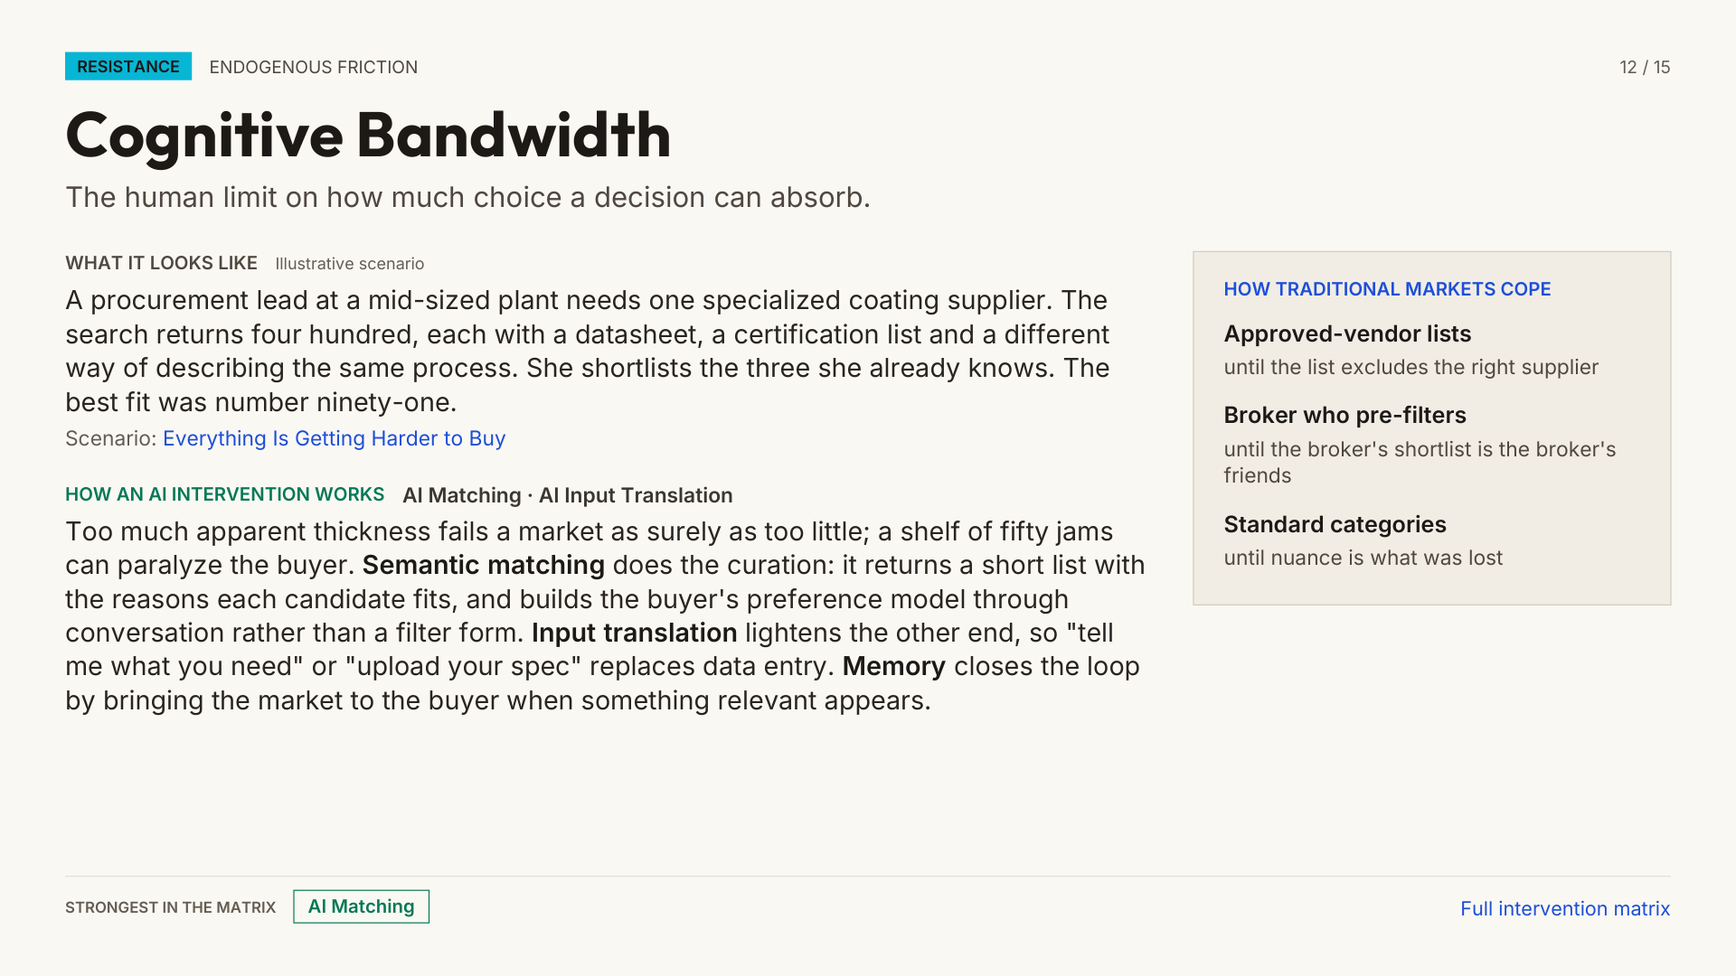
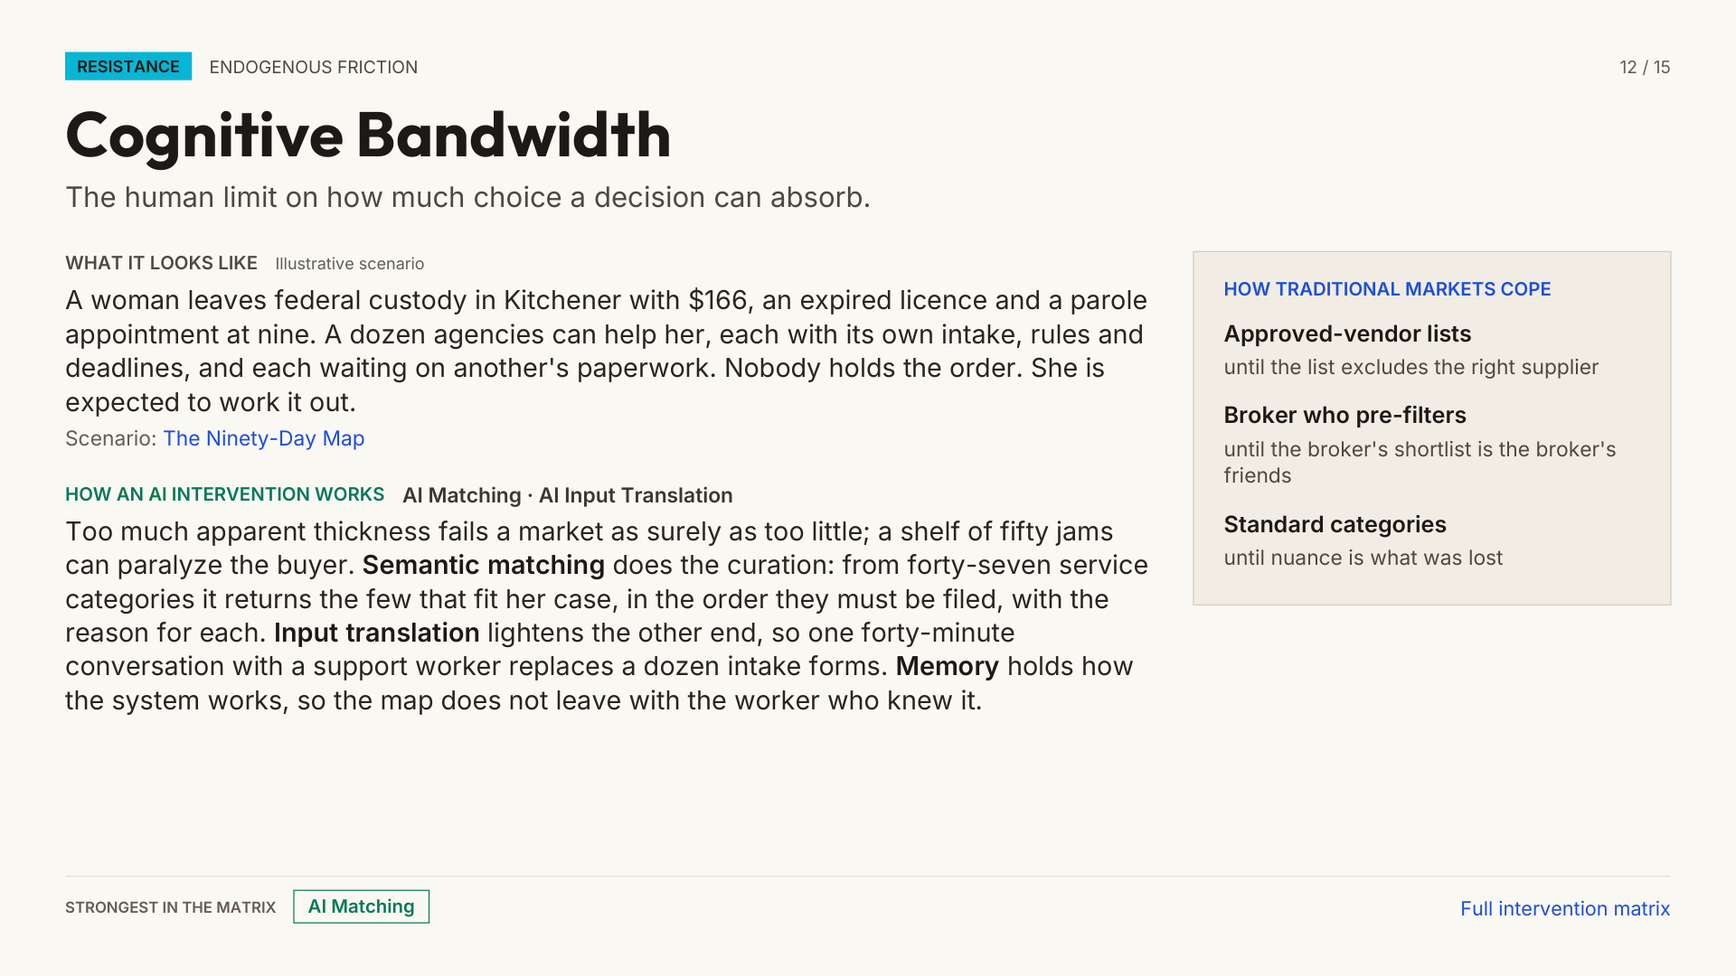
Cards: four scenes set in mainstream Canadian settings
Synced from DeeperPointComms/library/resistance-cards. Trust and Fulfillment
lose their Ethiopian scenes; Cognitive Bandwidth and Participant
Fragmentation trade a machining scene for a social-services one and a
municipal one, so the set is no longer all business.

  Trust                      The Tensile Test That Almost Didn't Happen
  Cognitive Bandwidth        The Ninety-Day Map
  Fulfillment                Two Lines Looking for Each Other
  Participant Fragmentation  The Contaminated Lot

The mechanism text on each follows its new scene. Deck, images and
thumbnails are rebuilt.

Changed region(s): [[0.0312, 0.55, 0.6562, 0.7333], [0.0312, 0.275, 0.6562, 0.4583]]

diff --git a/cards/index.html b/cards/index.html
@@ -175,12 +175,12 @@
     <div class="rc-left">
       <section class="rc-scene">
         <h2>What it looks like <span class="rc-tag">Illustrative scenario</span></h2>
-        <p class="rc-body">A Toronto professional owns a rental flat in Addis Ababa that needs ten thousand dollars of work. Her cousins can open the door for a contractor, but nobody on her side can judge the wiring or the invoice. She does nothing, and the flat decays.</p>
-        <p class="rc-link">Scenario: <a href="https://deeperpoint.com/blog/diaspora-property-thin-market.html">The House You Can&#x27;t Visit</a></p>
+        <p class="rc-body">A Timmins welding shop needs test welds broken and certified within fourteen days. A college lab in Sudbury, three hours south, has a calibrated machine, mostly idle, and no accreditation. The shop cannot stake a contract on a stranger&#x27;s result. The lab will not carry a stranger&#x27;s liability.</p>
+        <p class="rc-link">Scenario: <a href="https://deeperpoint.com/blog/manufacturing-scenarios-testing.html">The Tensile Test That Almost Didn&#x27;t Happen</a></p>
       </section>
       <section class="rc-ai">
         <h2>How an AI intervention works <span class="rc-lead">AI Trusted Intermediary · AI Memory</span></h2>
-        <p class="rc-body">Thin markets never reach the repeated dealings that build trust, so the <strong>trusted intermediary</strong> supplies it structurally. Both sides disclose to the AI, not to each other: the owner her budget and her fears, the contractor his past jobs and prices. The AI confirms fit and brokers the introduction only then. Every completed job becomes verified history, so a tradesperson with twenty tracked jobs carries evidence a stranger can rely on.</p>
+        <p class="rc-body">Thin markets never reach the repeated dealings that build trust, so the <strong>trusted intermediary</strong> supplies it structurally. Both sides disclose to the AI, not to each other: the shop its budget and its deadline, the lab its calibration certificates and its accreditation gap. The AI confirms fit, finds the condition under which the result will stand, and brokers the introduction only then. Every completed test becomes verified history, so a lab with twenty tracked jobs carries evidence a stranger can rely on.</p>
       </section>
     </div>
     <div class="rc-right">
@@ -608,12 +608,12 @@
     <div class="rc-left">
       <section class="rc-scene">
         <h2>What it looks like <span class="rc-tag">Illustrative scenario</span></h2>
-        <p class="rc-body">A procurement lead at a mid-sized plant needs one specialized coating supplier. The search returns four hundred, each with a datasheet, a certification list and a different way of describing the same process. She shortlists the three she already knows. The best fit was number ninety-one.</p>
-        <p class="rc-link">Scenario: <a href="https://deeperpoint.com/blog/everything-is-getting-harder-to-buy.html">Everything Is Getting Harder to Buy</a></p>
+        <p class="rc-body">A woman leaves federal custody in Kitchener with $166, an expired licence and a parole appointment at nine. A dozen agencies can help her, each with its own intake, rules and deadlines, and each waiting on another&#x27;s paperwork. Nobody holds the order. She is expected to work it out.</p>
+        <p class="rc-link">Scenario: <a href="https://deeperpoint.com/blog/the-ninety-day-map.html">The Ninety-Day Map</a></p>
       </section>
       <section class="rc-ai">
         <h2>How an AI intervention works <span class="rc-lead">AI Matching · AI Input Translation</span></h2>
-        <p class="rc-body">Too much apparent thickness fails a market as surely as too little; a shelf of fifty jams can paralyze the buyer. <strong>Semantic matching</strong> does the curation: it returns a short list with the reasons each candidate fits, and builds the buyer&#x27;s preference model through conversation rather than a filter form. <strong>Input translation</strong> lightens the other end, so &quot;tell me what you need&quot; or &quot;upload your spec&quot; replaces data entry. <strong>Memory</strong> closes the loop by bringing the market to the buyer when something relevant appears.</p>
+        <p class="rc-body">Too much apparent thickness fails a market as surely as too little; a shelf of fifty jams can paralyze the buyer. <strong>Semantic matching</strong> does the curation: from forty-seven service categories it returns the few that fit her case, in the order they must be filed, with the reason for each. <strong>Input translation</strong> lightens the other end, so one forty-minute conversation with a support worker replaces a dozen intake forms. <strong>Memory</strong> holds how the system works, so the map does not leave with the worker who knew it.</p>
       </section>
     </div>
     <div class="rc-right">
@@ -647,18 +647,18 @@
     <div class="rc-left">
       <section class="rc-scene">
         <h2>What it looks like <span class="rc-tag">Illustrative scenario</span></h2>
-        <p class="rc-body">A smallholder in the Rift Valley and a hotel chef in Addis Ababa are a hundred and sixty kilometres apart. Between them sit five intermediaries, no cold chain, and a system that wastes a third of everything it touches. The match is easy. The tomatoes are not.</p>
-        <p class="rc-link">Scenario: <a href="https://deeperpoint.com/blog/ethiopia-produce-thin-market.html">Tomatoes in the Sun</a></p>
+        <p class="rc-body">A Guelph food entrepreneur has a validated recipe for a frozen snack and a listing at a regional grocery chain. Of seven co-packers she finds, three lack the freezing line and two set minimum runs she cannot fill at launch. A Chilliwack plant runs two such lines under half full.</p>
+        <p class="rc-link">Scenario: <a href="https://deeperpoint.com/blog/two-lines-looking-for-each-other.html">Two Lines Looking for Each Other</a></p>
       </section>
       <section class="rc-ai">
         <h2>How an AI intervention works <span class="rc-lead">AI-Enabled Aggregation · AI Matching</span></h2>
-        <p class="rc-body">Fulfilment sets the natural boundary of a market: the economic shipping radius, the cold-chain window, the minimum load a carrier will touch. <strong>Aggregation</strong> moves the boundary by fluidly grouping small producers into a counterparty large enough to fill a truck, hit a minimum order, or justify a refrigerated run, clustered by geography and timing rather than by permanent membership. <strong>Semantic matching</strong> then treats logistics as a matching variable, weighing freight, perishability and customs before proposing a pairing rather than discovering them afterwards.</p>
+        <p class="rc-body">Fulfilment sets the natural boundary of a market: the minimum run a plant will schedule, the cold-chain window, the load a carrier will touch. <strong>Aggregation</strong> moves the boundary by fluidly grouping small brands into a counterparty large enough to fill a shared run, hit a minimum order, or justify a refrigerated truck, clustered by format and timing rather than by permanent membership. <strong>Semantic matching</strong> then treats production and logistics as matching variables, weighing equipment, allergens, minimums and freight before proposing a pairing rather than discovering them afterwards.</p>
       </section>
     </div>
     <div class="rc-right">
       <aside class="rc-side">
         <h2>How traditional markets cope</h2>
-        <ul><li><b>Storage and cold-chain infrastructure</b><span>until no one can fund it for a thin flow</span></li><li><b>Central wholesale markets</b><span>until the farm is a hundred and sixty kilometres away</span></li><li><b>Freight consolidators</b><span>until the lot is too small to consolidate</span></li></ul>
+        <ul><li><b>Storage and cold-chain infrastructure</b><span>until no one can fund it for a thin flow</span></li><li><b>Central wholesale markets</b><span>until the right plant is on the other side of the country</span></li><li><b>Freight consolidators</b><span>until the lot is too small to consolidate</span></li></ul>
       </aside>
       <aside class="rc-orig"><h2>What&#x27;s new here</h2><p class="rc-body">The parties leave with a <strong>Deal Brief</strong>: a non-binding summary of everything explored and agreed, written for their own carriers, banks and export agencies. No platform synthesizes one.</p><small>Built, under test</small></aside>
     </div>
@@ -687,12 +687,12 @@
     <div class="rc-left">
       <section class="rc-scene">
         <h2>What it looks like <span class="rc-tag">Illustrative scenario</span></h2>
-        <p class="rc-body">No single Ontario machine shop can bid on a global clean-energy contract. The work needs manufacturing, testing, programme management, trade compliance and export finance, and each of those exists in a firm of twenty people that has never met the others. The prime goes to a conglomerate.</p>
-        <p class="rc-link">Scenario: <a href="https://deeperpoint.com/blog/ontario-roadmap-part3-pocket.html">The Virtual Tier-One</a></p>
+        <p class="rc-body">A community land trust in Sudbury holds a contaminated former dry-cleaning site it cannot develop. A six-person remediation firm, a lender, a city incentive and a federal housing fund each hold one piece of the deal. None is large enough, or sees enough, to assemble it. The lot sits idle.</p>
+        <p class="rc-link">Scenario: <a href="https://deeperpoint.com/blog/the-contaminated-lot.html">The Contaminated Lot</a></p>
       </section>
       <section class="rc-ai">
         <h2>How an AI intervention works <span class="rc-lead">AI-Enabled Aggregation</span></h2>
-        <p class="rc-body">Willingness and ability are present; scale is not, and the gap is where middlemen live. <strong>Aggregation</strong> fabricates the missing scale on demand: it identifies the small participants whose capabilities, geography and timing fit a specific requirement and assembles them into a virtual collective counterparty for that bid, without the permanent overhead of a cooperative. The <strong>trusted intermediary</strong> lets the members negotiate their shares confidentially, so a syndicate can form without anyone revealing their cost base to a future competitor.</p>
+        <p class="rc-body">Willingness and ability are present; scale is not, and the gap is where middlemen live. <strong>Aggregation</strong> fabricates the missing scale on demand: it identifies the small participants whose capabilities, geography and timing fit a specific requirement and assembles them into a virtual collective counterparty for that one project, without the permanent overhead of a cooperative. The <strong>trusted intermediary</strong> lets the members disclose their costs and financing limits confidentially, so the group can form before anyone has opened its books to the others.</p>
       </section>
     </div>
     <div class="rc-right">
@@ -788,7 +788,7 @@
   </div>
   <p class="cv-foot">Scenarios are illustrative. Challenge definitions and matrix effects follow the DeeperPoint Intervention Matrix
     (canonical reference v4.0); the traditional tools follow Part IV of the whitepaper. Where a card carries an originality note, it follows
-    DeeperPoint's originality review of 2026-11-05 and says whether the capability is built or planned. Built 2026-11-06.</p>
+    DeeperPoint's originality review of 2026-11-05 and says whether the capability is built or planned. Built 2026-11-24.</p>
 </main>
 <noscript><style>.cv-slide[hidden]{display:block;margin-bottom:24px}.cv-arrow,#fs,.cv-hint{display:none}</style></noscript>
     <!-- Footer -->

diff --git a/cards/fulfillment.html b/cards/fulfillment.html
@@ -87,18 +87,18 @@ html,body{margin:0;background:#05070d;min-height:100%;font-family:'Inter',system
     <div class="rc-left">
       <section class="rc-scene">
         <h2>What it looks like <span class="rc-tag">Illustrative scenario</span></h2>
-        <p class="rc-body">A smallholder in the Rift Valley and a hotel chef in Addis Ababa are a hundred and sixty kilometres apart. Between them sit five intermediaries, no cold chain, and a system that wastes a third of everything it touches. The match is easy. The tomatoes are not.</p>
-        <p class="rc-link">Scenario: <a href="https://deeperpoint.com/blog/ethiopia-produce-thin-market.html">Tomatoes in the Sun</a></p>
+        <p class="rc-body">A Guelph food entrepreneur has a validated recipe for a frozen snack and a listing at a regional grocery chain. Of seven co-packers she finds, three lack the freezing line and two set minimum runs she cannot fill at launch. A Chilliwack plant runs two such lines under half full.</p>
+        <p class="rc-link">Scenario: <a href="https://deeperpoint.com/blog/two-lines-looking-for-each-other.html">Two Lines Looking for Each Other</a></p>
       </section>
       <section class="rc-ai">
         <h2>How an AI intervention works <span class="rc-lead">AI-Enabled Aggregation · AI Matching</span></h2>
-        <p class="rc-body">Fulfilment sets the natural boundary of a market: the economic shipping radius, the cold-chain window, the minimum load a carrier will touch. <strong>Aggregation</strong> moves the boundary by fluidly grouping small producers into a counterparty large enough to fill a truck, hit a minimum order, or justify a refrigerated run, clustered by geography and timing rather than by permanent membership. <strong>Semantic matching</strong> then treats logistics as a matching variable, weighing freight, perishability and customs before proposing a pairing rather than discovering them afterwards.</p>
+        <p class="rc-body">Fulfilment sets the natural boundary of a market: the minimum run a plant will schedule, the cold-chain window, the load a carrier will touch. <strong>Aggregation</strong> moves the boundary by fluidly grouping small brands into a counterparty large enough to fill a shared run, hit a minimum order, or justify a refrigerated truck, clustered by format and timing rather than by permanent membership. <strong>Semantic matching</strong> then treats production and logistics as matching variables, weighing equipment, allergens, minimums and freight before proposing a pairing rather than discovering them afterwards.</p>
       </section>
     </div>
     <div class="rc-right">
       <aside class="rc-side">
         <h2>How traditional markets cope</h2>
-        <ul><li><b>Storage and cold-chain infrastructure</b><span>until no one can fund it for a thin flow</span></li><li><b>Central wholesale markets</b><span>until the farm is a hundred and sixty kilometres away</span></li><li><b>Freight consolidators</b><span>until the lot is too small to consolidate</span></li></ul>
+        <ul><li><b>Storage and cold-chain infrastructure</b><span>until no one can fund it for a thin flow</span></li><li><b>Central wholesale markets</b><span>until the right plant is on the other side of the country</span></li><li><b>Freight consolidators</b><span>until the lot is too small to consolidate</span></li></ul>
       </aside>
       <aside class="rc-orig"><h2>What&#x27;s new here</h2><p class="rc-body">The parties leave with a <strong>Deal Brief</strong>: a non-binding summary of everything explored and agreed, written for their own carriers, banks and export agencies. No platform synthesizes one.</p><small>Built, under test</small></aside>
     </div>

diff --git a/cards/cognitive-bandwidth.html b/cards/cognitive-bandwidth.html
@@ -87,12 +87,12 @@ html,body{margin:0;background:#05070d;min-height:100%;font-family:'Inter',system
     <div class="rc-left">
       <section class="rc-scene">
         <h2>What it looks like <span class="rc-tag">Illustrative scenario</span></h2>
-        <p class="rc-body">A procurement lead at a mid-sized plant needs one specialized coating supplier. The search returns four hundred, each with a datasheet, a certification list and a different way of describing the same process. She shortlists the three she already knows. The best fit was number ninety-one.</p>
-        <p class="rc-link">Scenario: <a href="https://deeperpoint.com/blog/everything-is-getting-harder-to-buy.html">Everything Is Getting Harder to Buy</a></p>
+        <p class="rc-body">A woman leaves federal custody in Kitchener with $166, an expired licence and a parole appointment at nine. A dozen agencies can help her, each with its own intake, rules and deadlines, and each waiting on another&#x27;s paperwork. Nobody holds the order. She is expected to work it out.</p>
+        <p class="rc-link">Scenario: <a href="https://deeperpoint.com/blog/the-ninety-day-map.html">The Ninety-Day Map</a></p>
       </section>
       <section class="rc-ai">
         <h2>How an AI intervention works <span class="rc-lead">AI Matching · AI Input Translation</span></h2>
-        <p class="rc-body">Too much apparent thickness fails a market as surely as too little; a shelf of fifty jams can paralyze the buyer. <strong>Semantic matching</strong> does the curation: it returns a short list with the reasons each candidate fits, and builds the buyer&#x27;s preference model through conversation rather than a filter form. <strong>Input translation</strong> lightens the other end, so &quot;tell me what you need&quot; or &quot;upload your spec&quot; replaces data entry. <strong>Memory</strong> closes the loop by bringing the market to the buyer when something relevant appears.</p>
+        <p class="rc-body">Too much apparent thickness fails a market as surely as too little; a shelf of fifty jams can paralyze the buyer. <strong>Semantic matching</strong> does the curation: from forty-seven service categories it returns the few that fit her case, in the order they must be filed, with the reason for each. <strong>Input translation</strong> lightens the other end, so one forty-minute conversation with a support worker replaces a dozen intake forms. <strong>Memory</strong> holds how the system works, so the map does not leave with the worker who knew it.</p>
       </section>
     </div>
     <div class="rc-right">

diff --git a/cards/participant-fragmentation.html b/cards/participant-fragmentation.html
@@ -87,12 +87,12 @@ html,body{margin:0;background:#05070d;min-height:100%;font-family:'Inter',system
     <div class="rc-left">
       <section class="rc-scene">
         <h2>What it looks like <span class="rc-tag">Illustrative scenario</span></h2>
-        <p class="rc-body">No single Ontario machine shop can bid on a global clean-energy contract. The work needs manufacturing, testing, programme management, trade compliance and export finance, and each of those exists in a firm of twenty people that has never met the others. The prime goes to a conglomerate.</p>
-        <p class="rc-link">Scenario: <a href="https://deeperpoint.com/blog/ontario-roadmap-part3-pocket.html">The Virtual Tier-One</a></p>
+        <p class="rc-body">A community land trust in Sudbury holds a contaminated former dry-cleaning site it cannot develop. A six-person remediation firm, a lender, a city incentive and a federal housing fund each hold one piece of the deal. None is large enough, or sees enough, to assemble it. The lot sits idle.</p>
+        <p class="rc-link">Scenario: <a href="https://deeperpoint.com/blog/the-contaminated-lot.html">The Contaminated Lot</a></p>
       </section>
       <section class="rc-ai">
         <h2>How an AI intervention works <span class="rc-lead">AI-Enabled Aggregation</span></h2>
-        <p class="rc-body">Willingness and ability are present; scale is not, and the gap is where middlemen live. <strong>Aggregation</strong> fabricates the missing scale on demand: it identifies the small participants whose capabilities, geography and timing fit a specific requirement and assembles them into a virtual collective counterparty for that bid, without the permanent overhead of a cooperative. The <strong>trusted intermediary</strong> lets the members negotiate their shares confidentially, so a syndicate can form without anyone revealing their cost base to a future competitor.</p>
+        <p class="rc-body">Willingness and ability are present; scale is not, and the gap is where middlemen live. <strong>Aggregation</strong> fabricates the missing scale on demand: it identifies the small participants whose capabilities, geography and timing fit a specific requirement and assembles them into a virtual collective counterparty for that one project, without the permanent overhead of a cooperative. The <strong>trusted intermediary</strong> lets the members disclose their costs and financing limits confidentially, so the group can form before anyone has opened its books to the others.</p>
       </section>
     </div>
     <div class="rc-right">

diff --git a/cards/trust.html b/cards/trust.html
@@ -87,12 +87,12 @@ html,body{margin:0;background:#05070d;min-height:100%;font-family:'Inter',system
     <div class="rc-left">
       <section class="rc-scene">
         <h2>What it looks like <span class="rc-tag">Illustrative scenario</span></h2>
-        <p class="rc-body">A Toronto professional owns a rental flat in Addis Ababa that needs ten thousand dollars of work. Her cousins can open the door for a contractor, but nobody on her side can judge the wiring or the invoice. She does nothing, and the flat decays.</p>
-        <p class="rc-link">Scenario: <a href="https://deeperpoint.com/blog/diaspora-property-thin-market.html">The House You Can&#x27;t Visit</a></p>
+        <p class="rc-body">A Timmins welding shop needs test welds broken and certified within fourteen days. A college lab in Sudbury, three hours south, has a calibrated machine, mostly idle, and no accreditation. The shop cannot stake a contract on a stranger&#x27;s result. The lab will not carry a stranger&#x27;s liability.</p>
+        <p class="rc-link">Scenario: <a href="https://deeperpoint.com/blog/manufacturing-scenarios-testing.html">The Tensile Test That Almost Didn&#x27;t Happen</a></p>
       </section>
       <section class="rc-ai">
         <h2>How an AI intervention works <span class="rc-lead">AI Trusted Intermediary · AI Memory</span></h2>
-        <p class="rc-body">Thin markets never reach the repeated dealings that build trust, so the <strong>trusted intermediary</strong> supplies it structurally. Both sides disclose to the AI, not to each other: the owner her budget and her fears, the contractor his past jobs and prices. The AI confirms fit and brokers the introduction only then. Every completed job becomes verified history, so a tradesperson with twenty tracked jobs carries evidence a stranger can rely on.</p>
+        <p class="rc-body">Thin markets never reach the repeated dealings that build trust, so the <strong>trusted intermediary</strong> supplies it structurally. Both sides disclose to the AI, not to each other: the shop its budget and its deadline, the lab its calibration certificates and its accreditation gap. The AI confirms fit, finds the condition under which the result will stand, and brokers the introduction only then. Every completed test becomes verified history, so a lab with twenty tracked jobs carries evidence a stranger can rely on.</p>
       </section>
     </div>
     <div class="rc-right">
